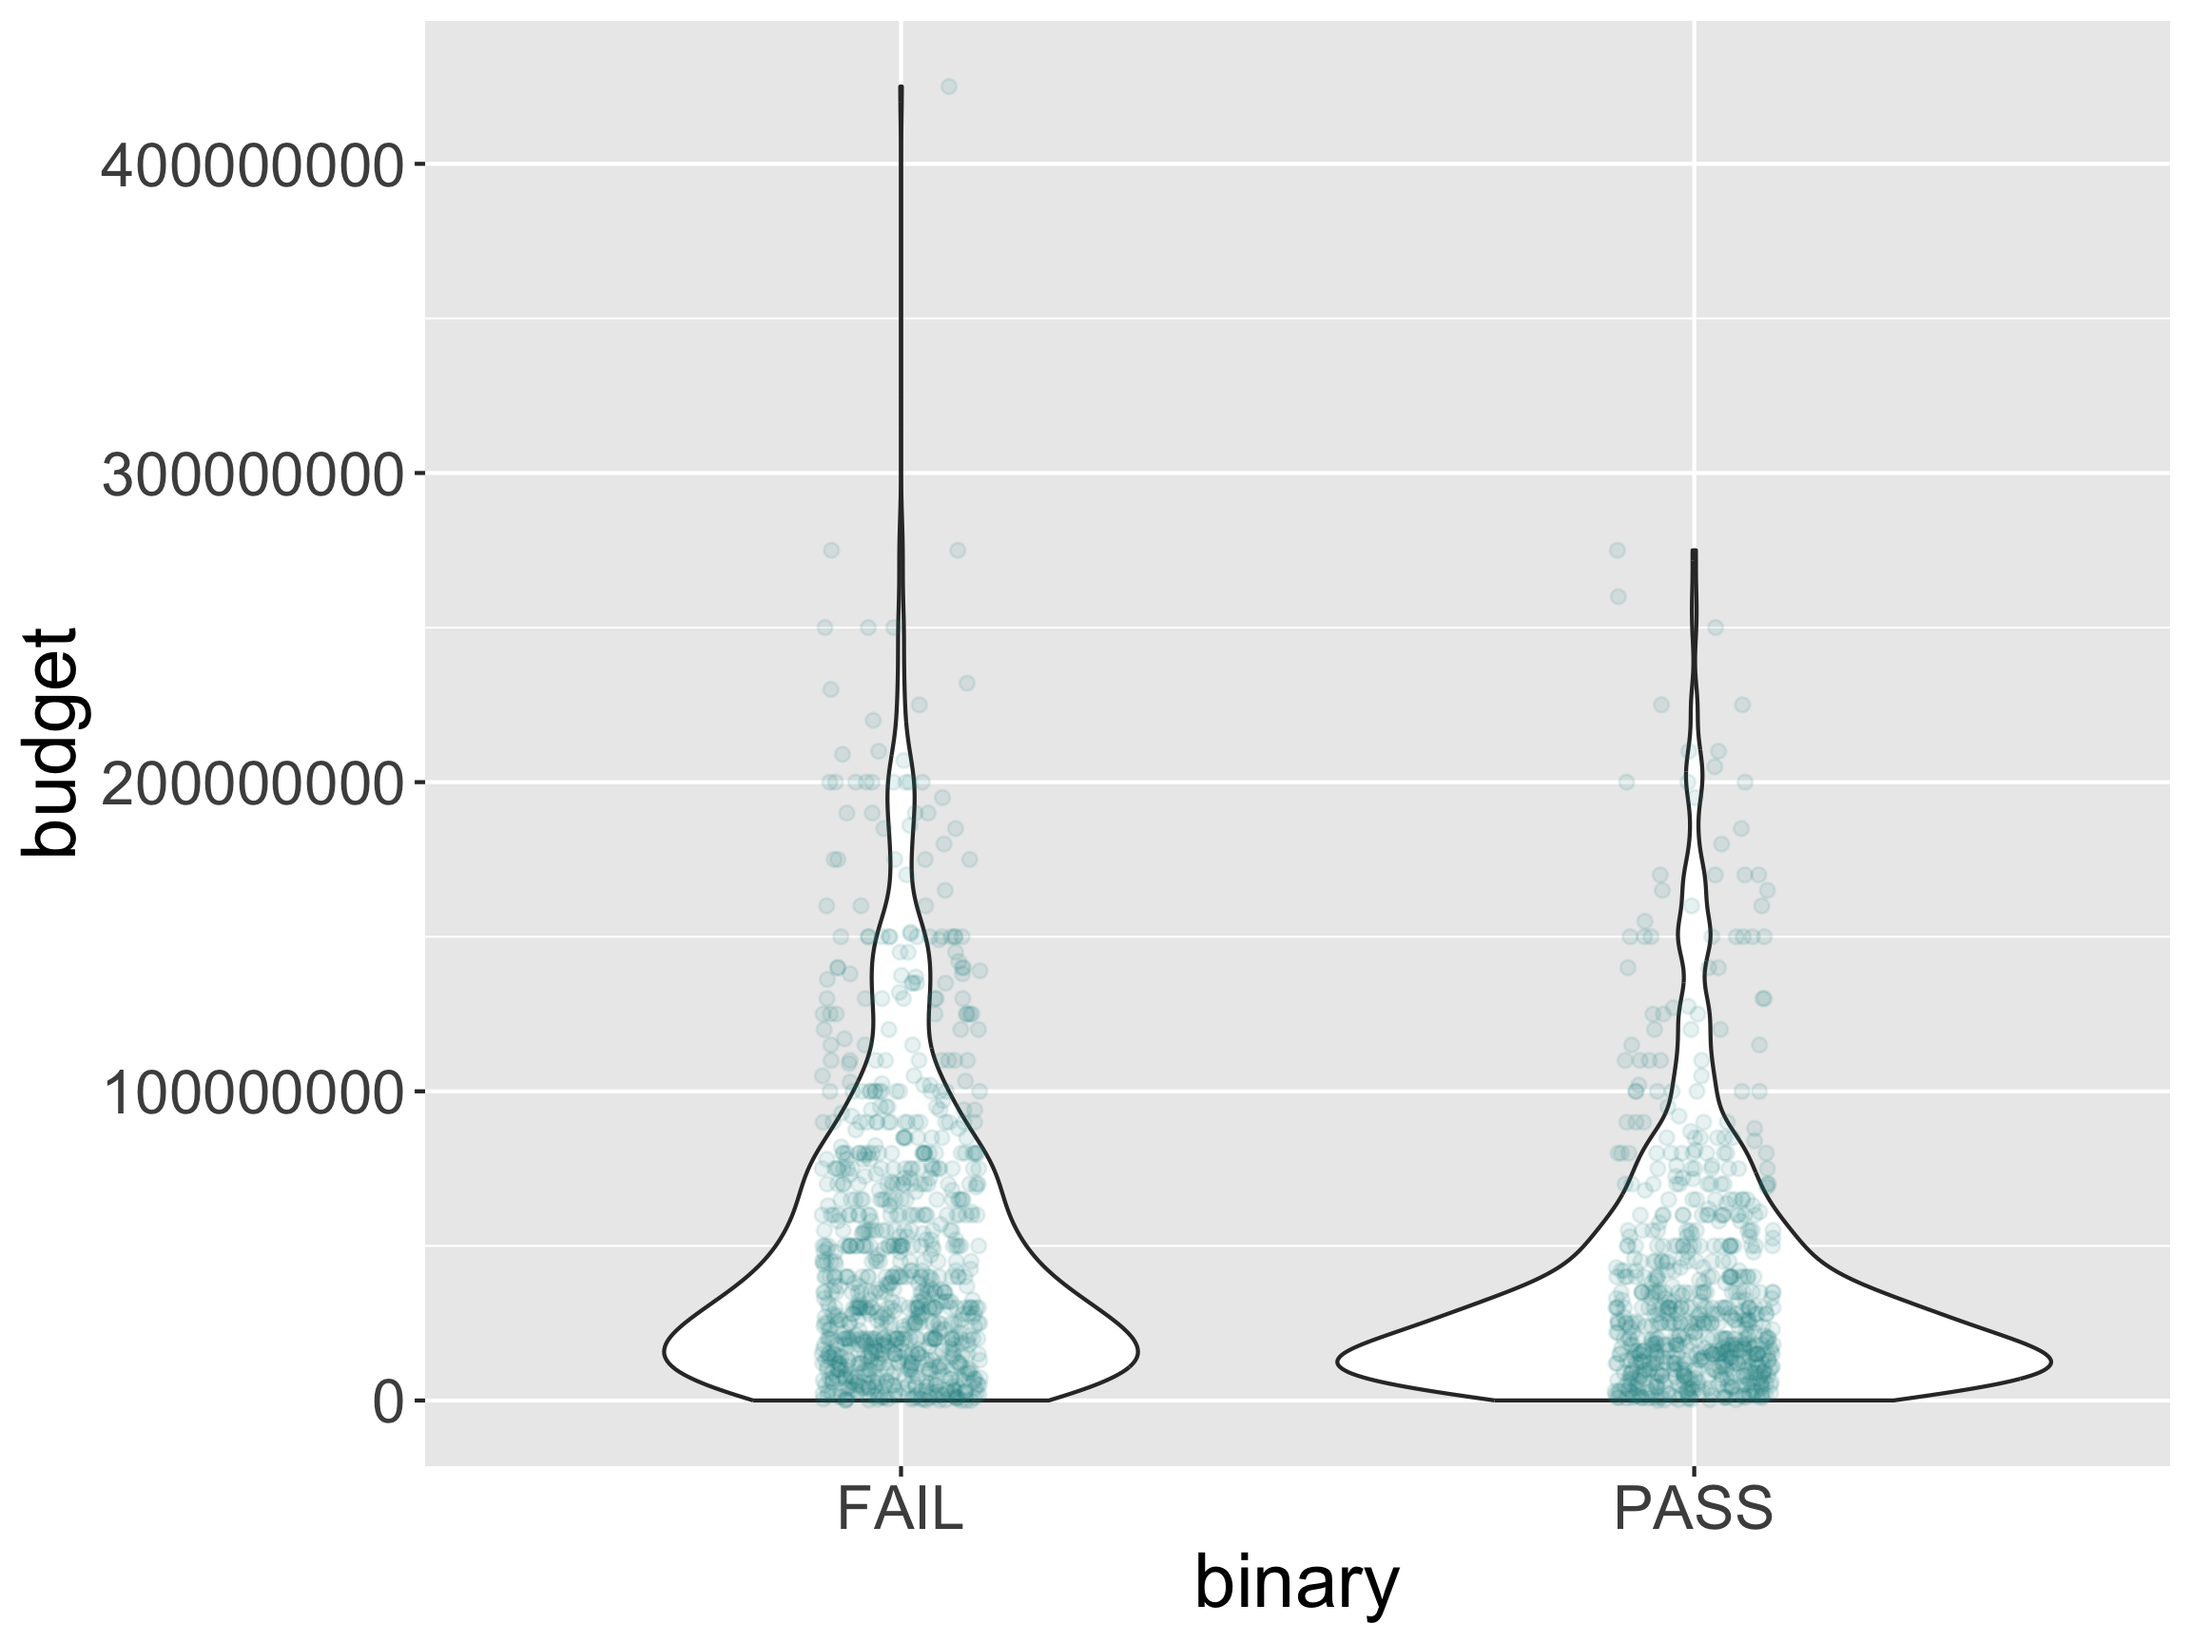
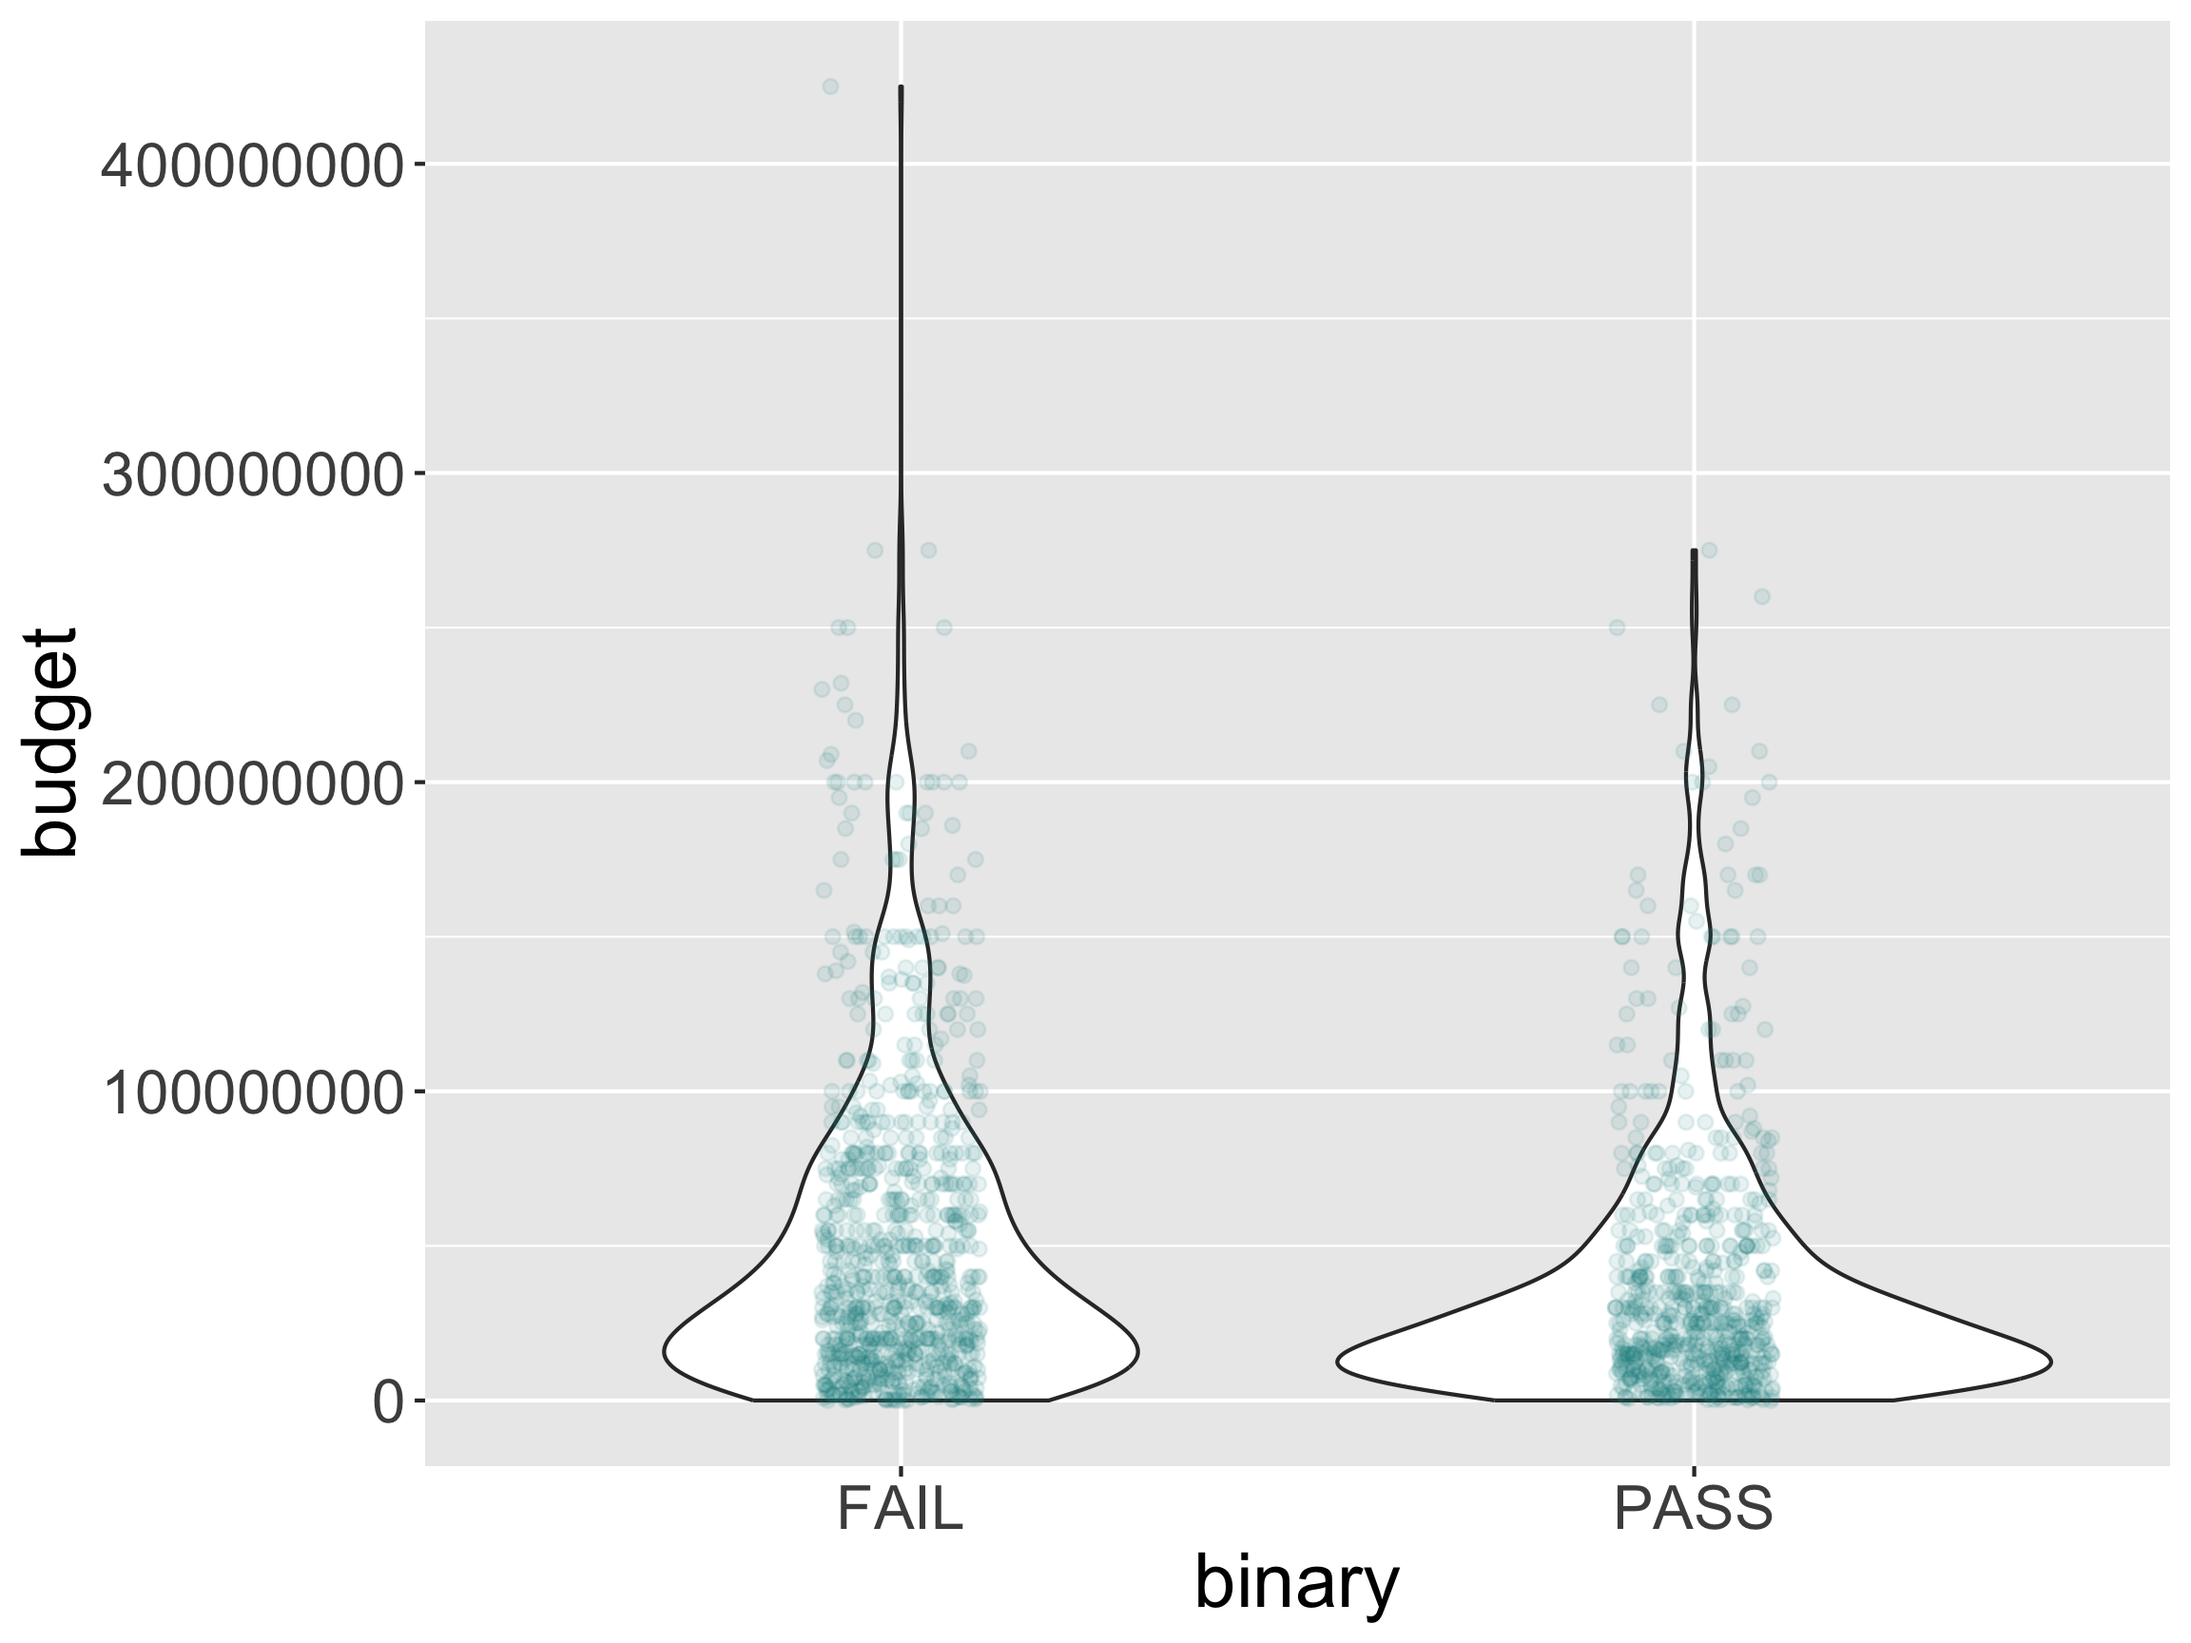
changes from during lecture

Changed region(s): [[0.375, 0.5625, 0.4688, 0.875], [0.7188, 0.5312, 0.8125, 0.875], [0.375, 0.4375, 0.4375, 0.5312]]

diff --git a/docs/slides/math241_wk02mon.html b/docs/slides/math241_wk02mon.html
@@ -683,8 +683,8 @@ $ day_of_week  &lt;dbl&gt; 5, 6, 7, 1, 2, 3, 4, 5, 6, 7, 1, 2, 3, 4, 5, 6, 7, 1,
 <div class="code-copy-outer-scaffold"><div class="sourceCode cell-code" id="cb21"><pre class="sourceCode numberSource r number-lines code-with-copy"><code class="sourceCode r"><span id="cb21-1"><a></a><span class="fu">ggplot</span>(<span class="at">data =</span> Births2015, </span>
 <span id="cb21-2"><a></a>       <span class="at">mapping =</span> <span class="fu">aes</span>(<span class="at">x =</span> date, <span class="at">y =</span> births,</span>
 <span id="cb21-3"><a></a>                     <span class="at">color =</span> wday)) <span class="sc">+</span> </span>
-<span id="cb21-4"><a></a>  <span class="fu">geom_point</span>() <span class="sc">+</span> </span>
-<span id="cb21-5"><a></a>  <span class="fu">geom_smooth</span>(<span class="at">color =</span> <span class="st">"black"</span>, <span class="at">se =</span> <span class="cn">FALSE</span>) <span class="sc">+</span></span>
+<span id="cb21-4"><a></a>  <span class="fu">geom_smooth</span>(<span class="at">color =</span> <span class="st">"black"</span>, <span class="at">se =</span> <span class="cn">FALSE</span>) <span class="sc">+</span></span>
+<span id="cb21-5"><a></a>  <span class="fu">geom_point</span>() <span class="sc">+</span> </span>
 <span id="cb21-6"><a></a>  <span class="fu">theme</span>(<span class="at">legend.position =</span> <span class="st">"bottom"</span>)</span></code></pre></div><button title="Copy to Clipboard" class="code-copy-button"><i class="bi"></i></button></div>
 </div><div class="column">
 <div class="cell-output-display">
@@ -965,7 +965,7 @@ $ error         &lt;lgl&gt; NA, NA, NA, NA, NA, NA, NA, NA, NA, NA, NA, NA, NA, 
 <span id="cb35-5"><a></a>                     <span class="at">y =</span> binary,</span>
 <span id="cb35-6"><a></a>                     <span class="at">fill =</span> n)) <span class="sc">+</span> </span>
 <span id="cb35-7"><a></a>  <span class="fu">geom_tile</span>() <span class="sc">+</span></span>
-<span id="cb35-8"><a></a>  <span class="fu">scale_fill_viridis_c</span>(<span class="at">direction =</span> <span class="sc">-</span><span class="dv">1</span>)</span></code></pre></div><button title="Copy to Clipboard" class="code-copy-button"><i class="bi"></i></button></div>
+<span id="cb35-8"><a></a>  <span class="fu">scale_fill_distiller</span>(<span class="at">palette =</span> <span class="dv">4</span>)</span></code></pre></div><button title="Copy to Clipboard" class="code-copy-button"><i class="bi"></i></button></div>
 </div><div class="column">
 <div class="cell-output-display">
 <div class="quarto-figure quarto-figure-center">
@@ -1063,7 +1063,7 @@ $ error         &lt;lgl&gt; NA, NA, NA, NA, NA, NA, NA, NA, NA, NA, NA, NA, NA, 
 <div class="code-copy-outer-scaffold"><div class="sourceCode cell-code" id="cb39"><pre class="sourceCode numberSource r number-lines code-with-copy"><code class="sourceCode r"><span id="cb39-1"><a></a><span class="fu">ggplot</span>(movies, <span class="fu">aes</span>(<span class="at">x =</span> budget)) <span class="sc">+</span></span>
 <span id="cb39-2"><a></a>  <span class="fu">geom_histogram</span>(<span class="at">bins =</span> <span class="dv">50</span>, </span>
 <span id="cb39-3"><a></a>                 <span class="at">color =</span> <span class="st">"white"</span>,</span>
-<span id="cb39-4"><a></a>                 <span class="at">fill =</span> <span class="st">"darkcyan"</span>)</span></code></pre></div><button title="Copy to Clipboard" class="code-copy-button"><i class="bi"></i></button></div>
+<span id="cb39-4"><a></a>                 <span class="at">fill =</span> <span class="st">"darkcyan"</span>) </span></code></pre></div><button title="Copy to Clipboard" class="code-copy-button"><i class="bi"></i></button></div>
 </div><div class="column">
 <div class="cell-output-display">
 <div class="quarto-figure quarto-figure-center">
